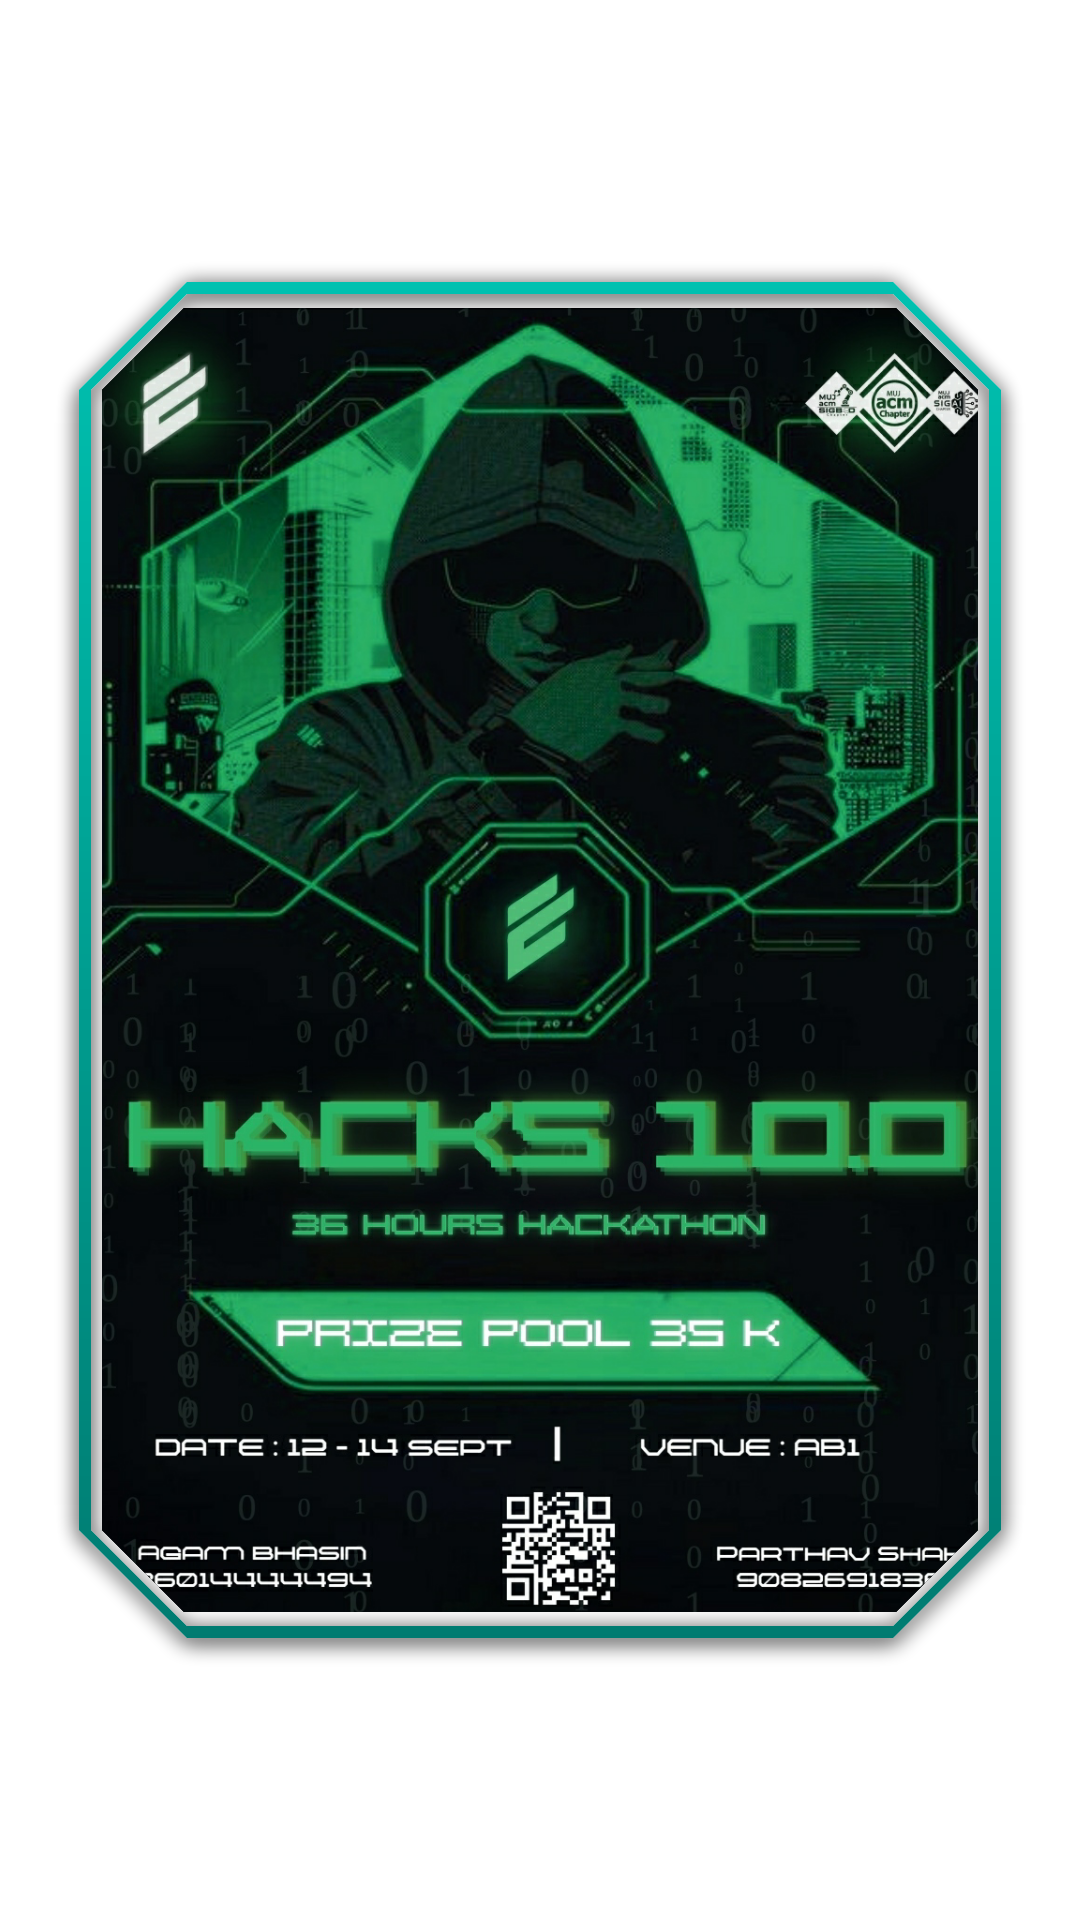
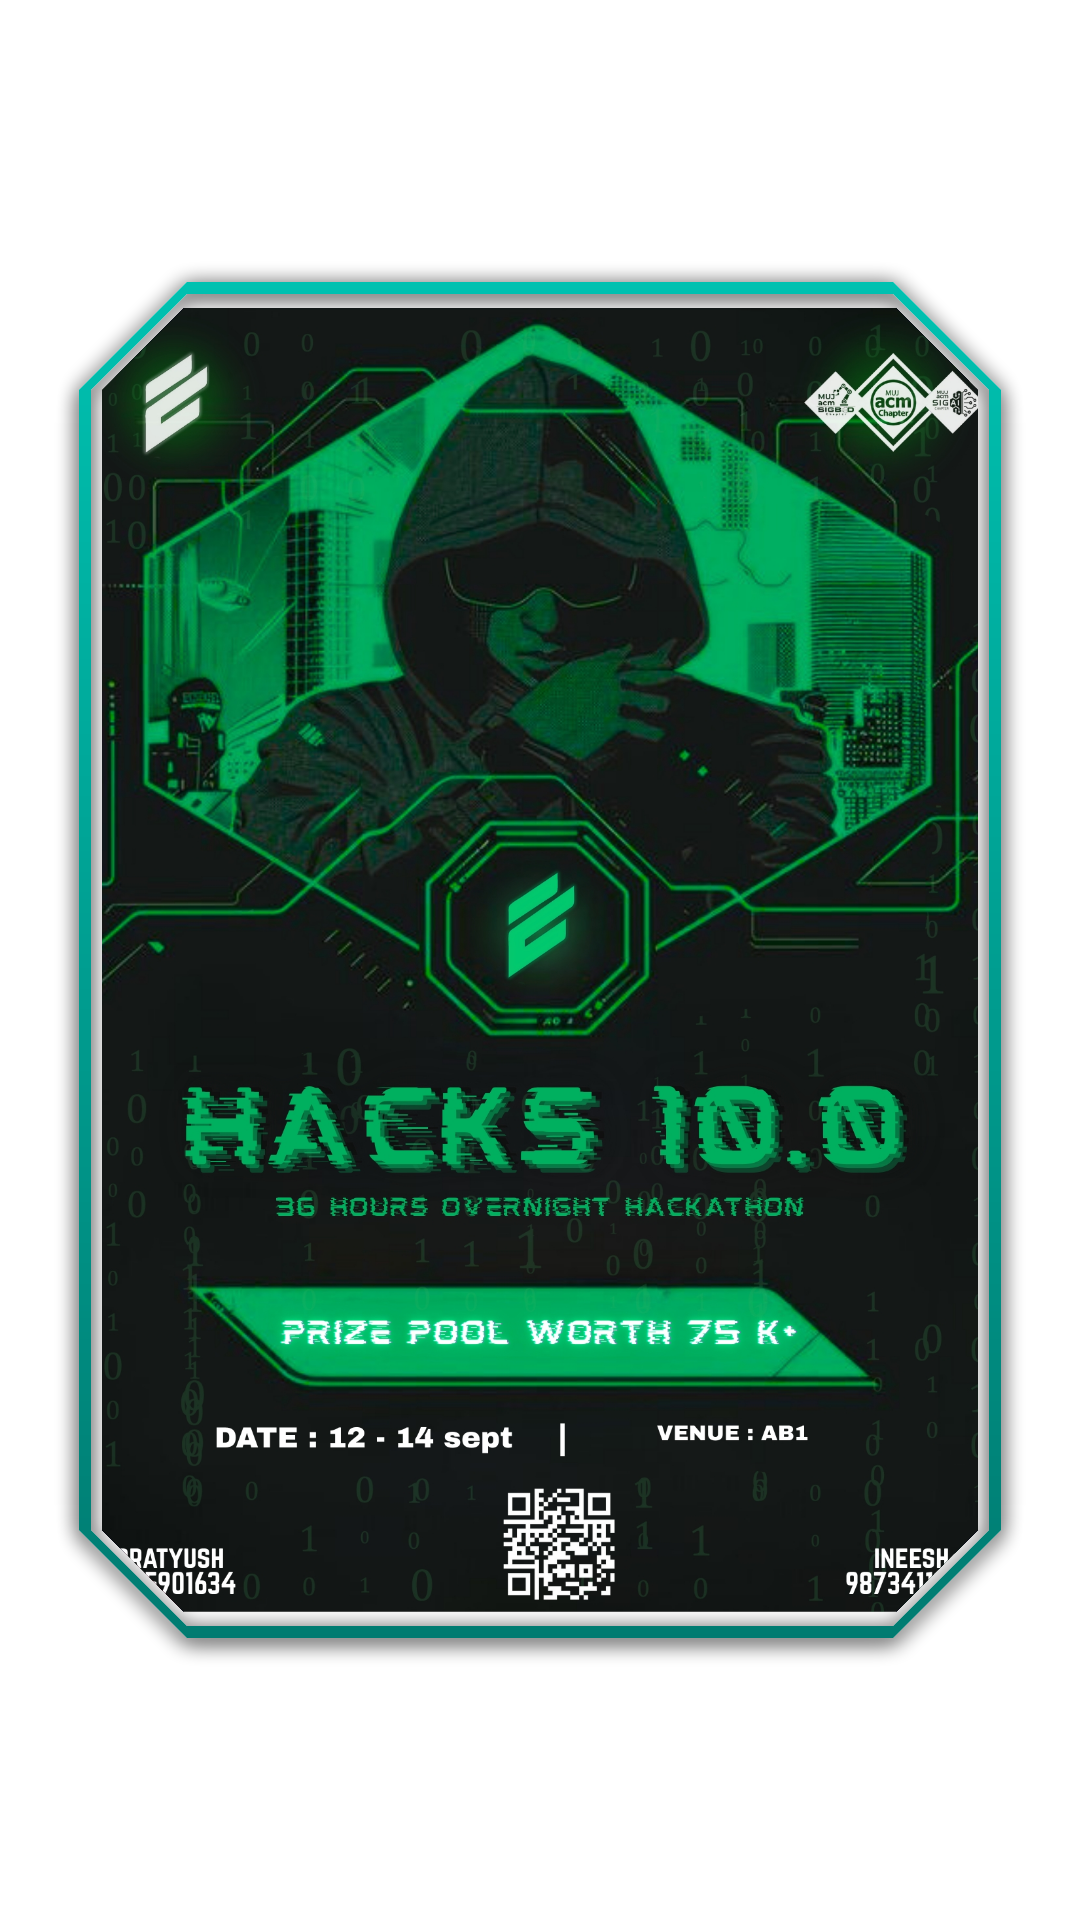
Hacks Update

diff --git a/src/components/CyberpunkEvents.tsx b/src/components/CyberpunkEvents.tsx
@@ -103,9 +103,9 @@ const CyberpunkEventInterface: React.FC = () => {
     {
       title: "Hacks 10.0",
   description: "The 10th edition of MUJ’s flagship 36-hour offline hackathon. Participants will brainstorm, design, and present innovative solutions across three stages: the PPT round, prototype development, and a final judging session before an expert panel. Beyond competition, HACKS offers freshers an opportunity to learn, collaborate, and experience the excitement of real-world problem-solving.",
-      date: "12th Sept 2025",
-      time: "02:00 PM",
+      date: "12-14th Sept 2025",
       venue: "AB1",
+      prize: "75K+",
   poster: "/events/frames/hacks10.0.png",
   registerUrl: "https://docs.google.com/forms/d/e/1FAIpQLSdYYACaGPrY36eIwcMM-FBYs9UnpHH3NNJOPbwMynuidt38RQ/viewform", // TODO: replace with Google Form URL
     },
